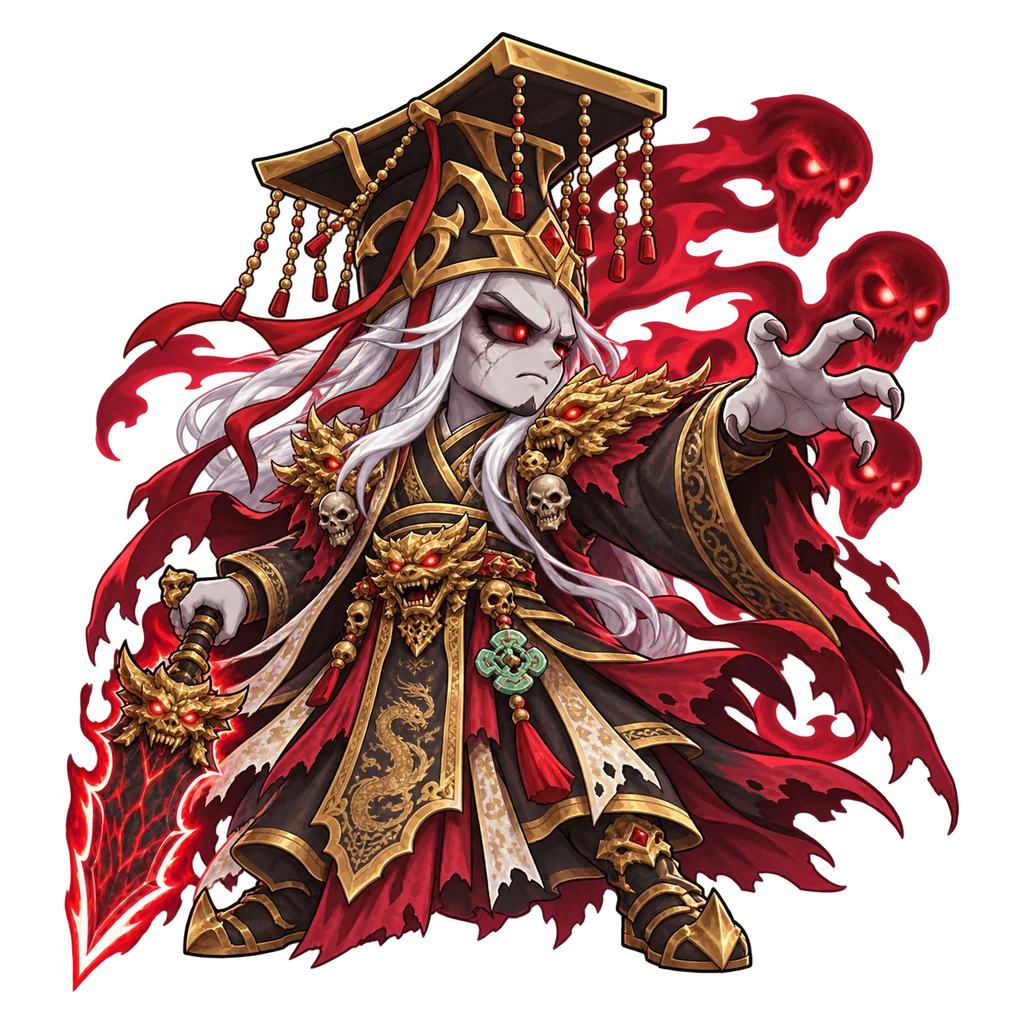
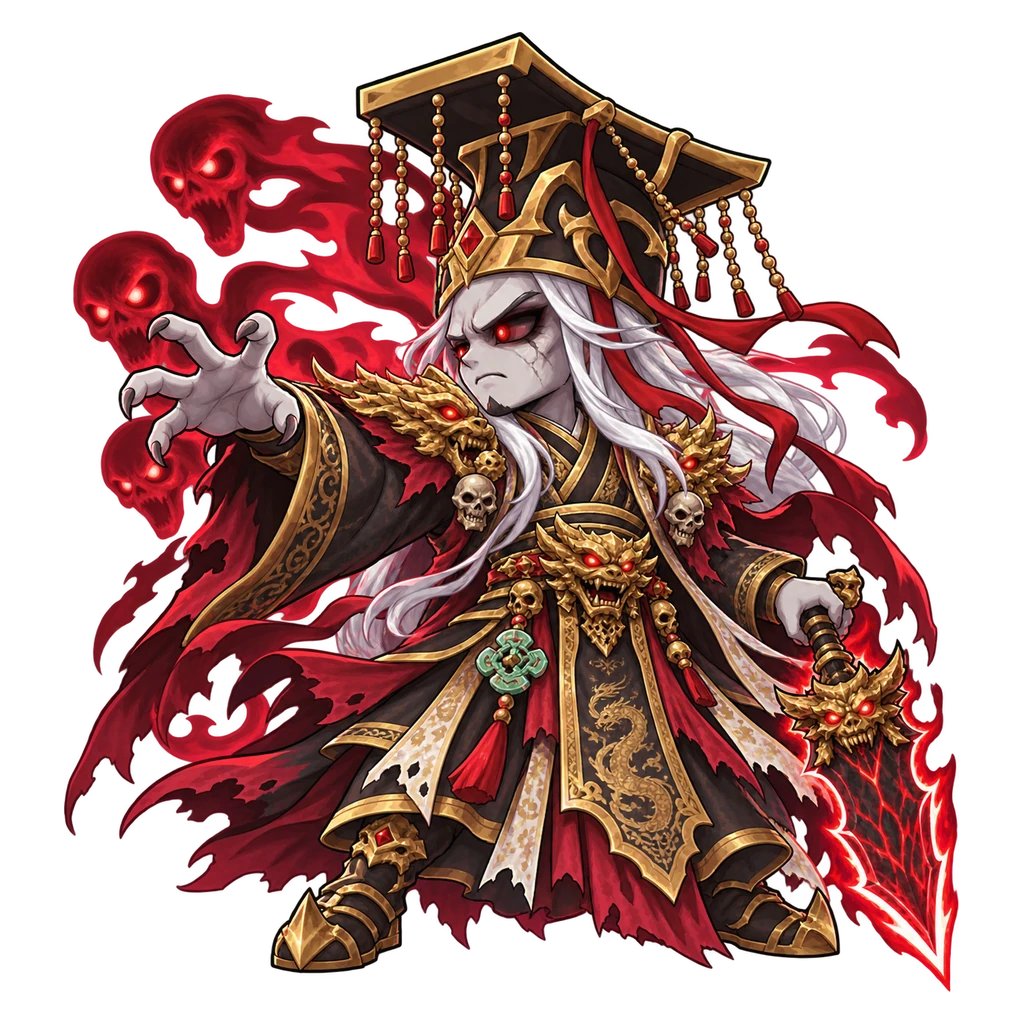
[verified] restore Qin emperor left-facing artwork

diff --git a/tests/app.spec.js b/tests/app.spec.js
@@ -443,6 +443,7 @@ test('the complete zombie roster uses the approved v2 art and memorable names', 
   const script=fs.readFileSync(scriptPath,'utf8');
   expect(script).toContain("ImageOps.mirror(source)");
   expect(script).toContain("remove_baked_background");
+  expect(script).toContain('(\"01-qin-emperor.png\", \"qin-emperor.webp\", False, False)');
   await openApp(page);
   const actual=await page.evaluate(async expected=>{
     const result={};

diff --git a/scripts/prepare_zombie_roster_assets.py b/scripts/prepare_zombie_roster_assets.py
@@ -9,7 +9,7 @@ SOURCE_DIR = ROOT / "assets/characters/source-originals/zombie-roster-20260907"
 OUTPUT_DIR = ROOT / "assets/characters/zombie-army/zombie-roster-v2"
 
 ROSTER = [
-    ("01-qin-emperor.png", "qin-emperor.webp", True, False),
+    ("01-qin-emperor.png", "qin-emperor.webp", False, False),
     ("02-red-band-grunt.png", "red-band-grunt.webp", False, False),
     ("03-iron-helmet-grunt.png", "iron-helmet-grunt.webp", False, True),
     ("04-giant-mace-brute.png", "giant-mace-brute.webp", False, True),

diff --git a/assets/characters/zombie-army/README.md b/assets/characters/zombie-army/README.md
@@ -17,6 +17,6 @@ Gimmy 於 2026-09-07 提供完整新版僵屍方角色素材，並於 2026-09-08
 | `qinEmperor` | 始皇屍帝・嬴政 | `zombie-roster-v2/qin-emperor.webp` |
 | `necromancer` | 冥火屍巫 | `zombie-roster-v2/netherfire-necromancer.webp` |
 
-原始上傳圖分別保存在 `assets/characters/source-originals/zombie-roster-20260907/` 與 `assets/characters/source-originals/zombie-roster-20260908/`，由專案根目錄的 `scripts/prepare_zombie_roster_assets.py` 可重製正式檔。圖3、4、6、9與冥火屍巫會移除烙入的黑底／棋盤格；始皇與烈焰屍車會水平鏡像，使攻擊朝左。
+原始上傳圖分別保存在 `assets/characters/source-originals/zombie-roster-20260907/` 與 `assets/characters/source-originals/zombie-roster-20260908/`，由專案根目錄的 `scripts/prepare_zombie_roster_assets.py` 可重製正式檔。圖3、4、6、9與冥火屍巫會移除烙入的黑底／棋盤格；始皇沿用原圖朝左方向，不再鏡像；烈焰屍車會水平鏡像，使攻擊朝左。
 
 既有 `zombie-army.json` 與舊 PNG/WebP 留作歷史素材；遊戲執行期不再引用舊的 11 位角色圖。
